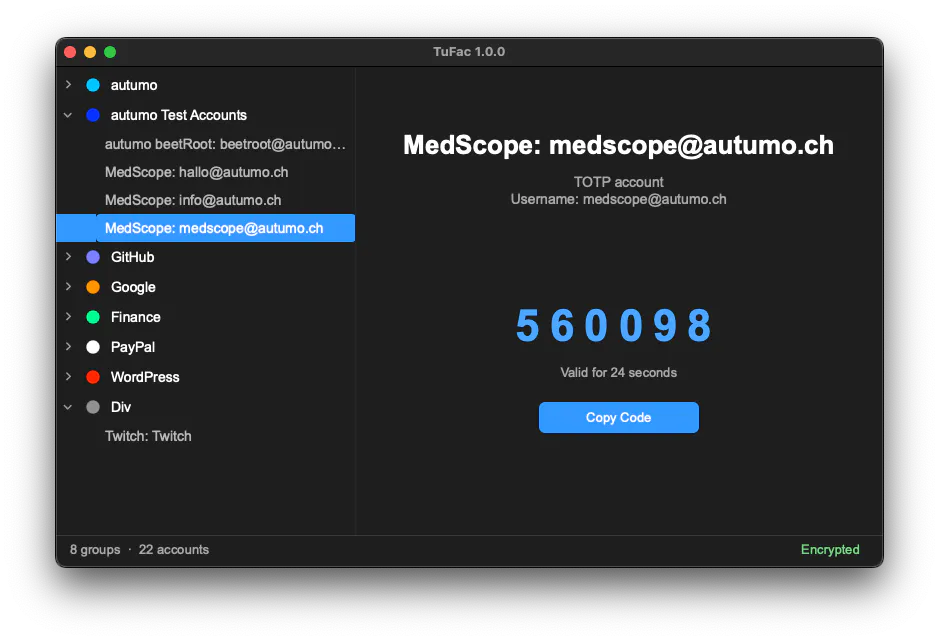
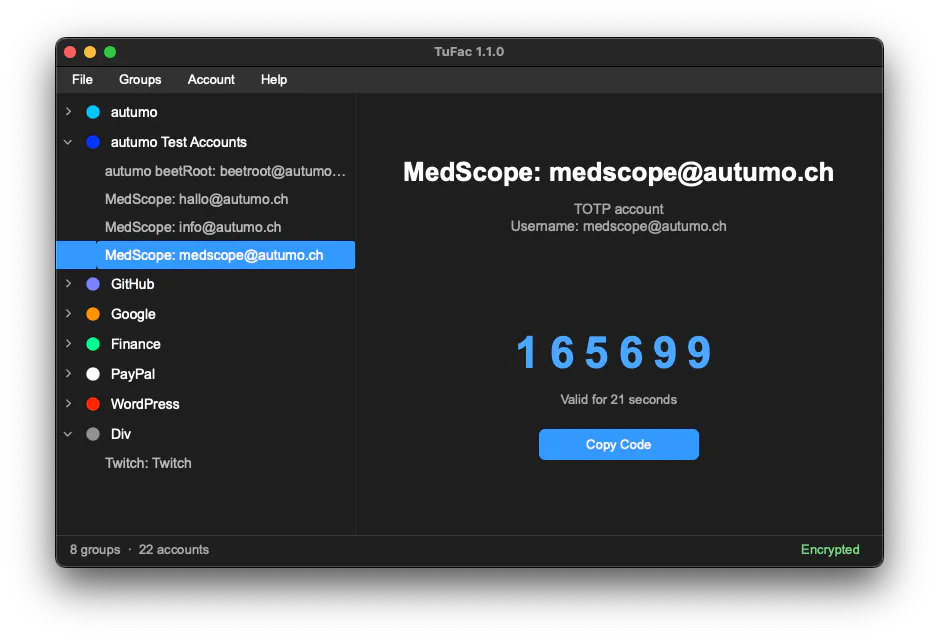
v1.1.0
- Fixes

diff --git a/app/tufac.py b/app/tufac.py
@@ -31,6 +31,7 @@ from PySide6.QtWidgets import QApplication, QMenu, QSystemTrayIcon
 from style import apply_theme
 from tufac_gui import TuFacWindow, resource_path
 
+app = None
 window = None
 LOGGING = False
 
@@ -73,6 +74,7 @@ def create_tray():
         icon.setIsMask(True)
 
     tray = QSystemTrayIcon(icon, window)
+    tray.setToolTip(APP_NAME)
 
     menu = QMenu(window)
 
@@ -87,7 +89,7 @@ def create_tray():
     menu.addSeparator()
 
     quit_action = QAction("Quit", menu)
-    quit_action.triggered.connect(QApplication.instance().quit)
+    quit_action.triggered.connect(window.quit_app)
     menu.addAction(quit_action)
 
     tray.setContextMenu(menu)
@@ -102,6 +104,8 @@ def create_tray():
 
 
 def main():
+    global app, window
+
     app = QApplication(sys.argv)
 
     app.setApplicationName(APP_NAME)
@@ -122,7 +126,11 @@ def main():
     else:
         show_window()
 
-    sys.exit(app.exec())
+    ret = app.exec()
+
+    window = None
+
+    sys.exit(ret)
 
 
 if __name__ == "__main__":

diff --git a/app/tufac_gui.py b/app/tufac_gui.py
@@ -935,7 +935,7 @@ class TuFacWindow(QMainWindow):
 
     def quit_app(self):
         if TRAY_MODE:
-            QApplication.instance().quit()
+            QTimer.singleShot(0, QApplication.instance().quit)
         else:
             self.close()
 
